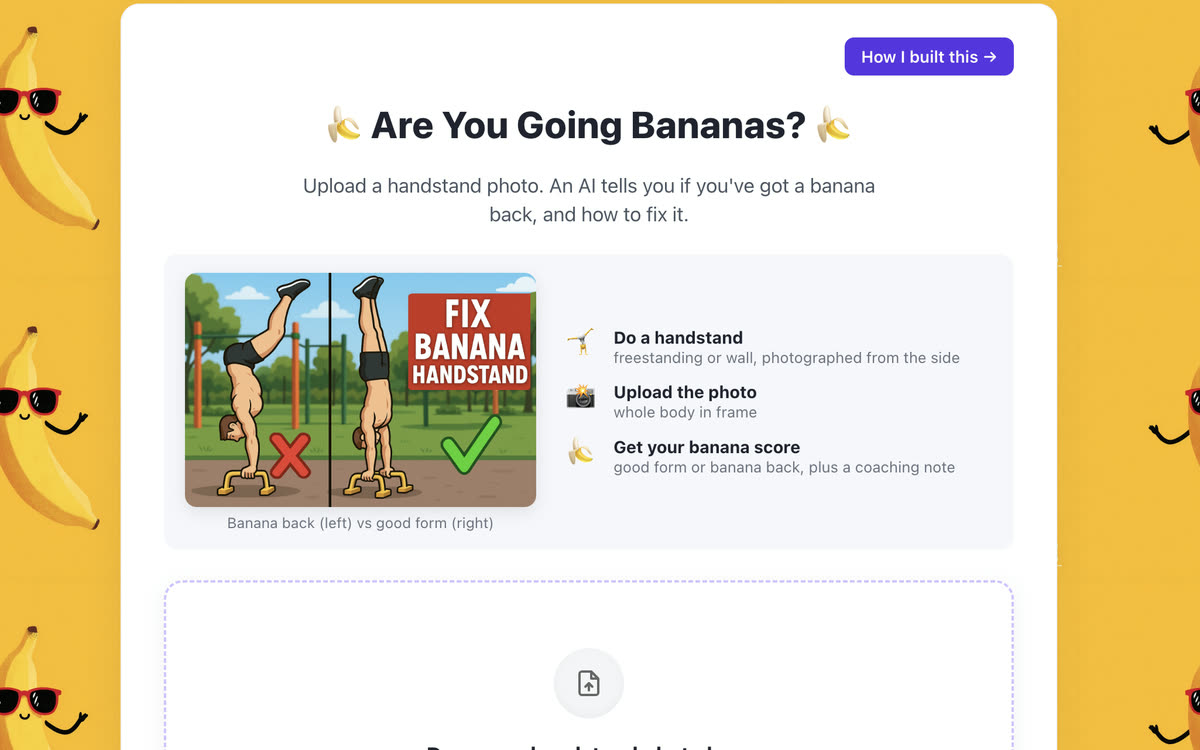
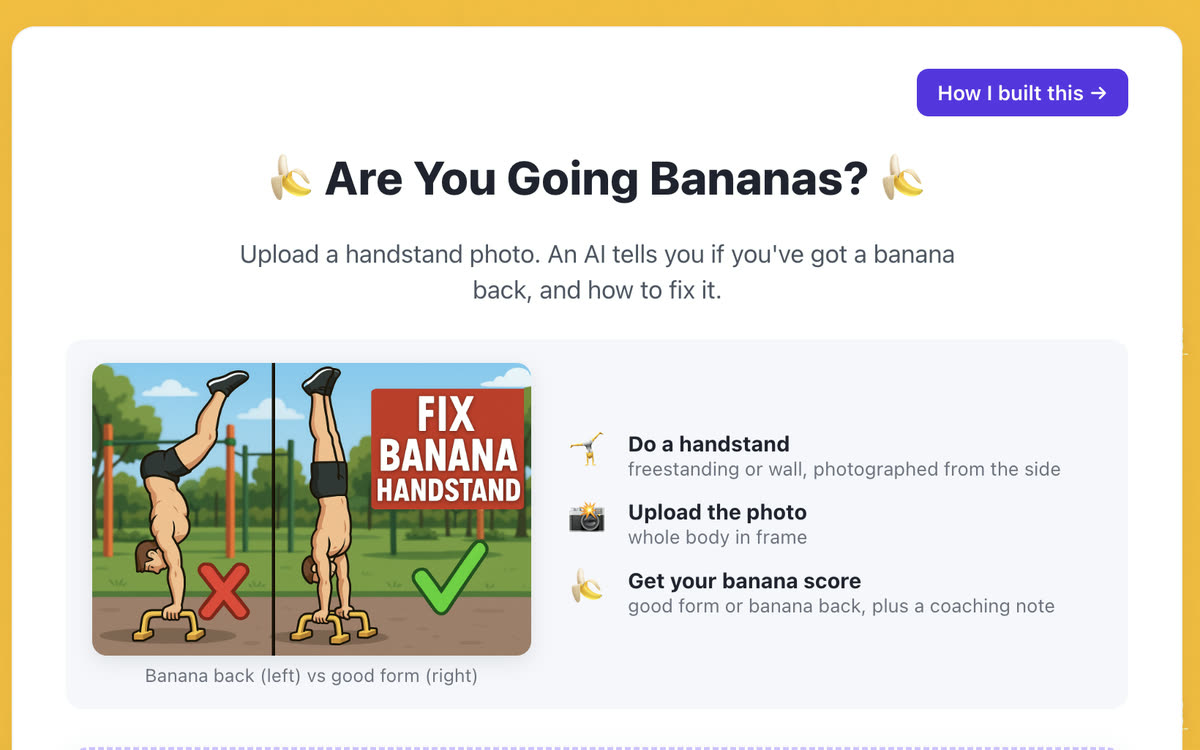
Per-project card images: two tiles, two pairs
Overlaying illustration and screenshot made both worse. Side by side,
each keeps its full frame.

- 01 Airline, 02 ragpatterns: illustration only, normal tiles.
- 03 Make My Gate, 04 fixmybanana: full-width cards with the
  illustration and the live site side by side, 575px each.
- Pairs stack vertically below 900px rather than squeezing.
- fixmybanana's screenshot recropped to its content card.

diff --git a/index.html b/index.html
@@ -71,6 +71,8 @@
 <!-- =========================================================
      WORK  (one <a class="card"> per project)
      To add a project: copy a whole <a class="card"> ... </a> block.
+     A card with two images uses class="card card-wide" and
+     class="card-image card-pair": illustration first, screenshot second.
      ========================================================= -->
 <section class="wrap section" id="work">
   <div class="section-head">
@@ -99,7 +101,7 @@
 
     <!-- PROJECT 02 -->
     <a class="card" href="work/ragpatterns/">
-      <div class="card-image"><img src="images/ragpatterns.jpg" alt="ragpatterns.com, showing the seven RAG patterns scored side by side"></div>
+      <div class="card-image"><img src="images/ragpatterns.svg" alt="Illustration: naive RAG versus reranking"></div>
       <div class="card-body">
         <div class="card-top">
           <span class="card-num">02</span>
@@ -112,8 +114,11 @@
     </a>
 
     <!-- PROJECT 03 -->
-    <a class="card" href="work/make-my-gate/">
-      <div class="card-image"><img src="images/makemygate.jpg" alt="Make My Gate, asking whether a D33 to A63 connection in 50 minutes is possible"></div>
+    <a class="card card-wide" href="work/make-my-gate/">
+      <div class="card-image card-pair">
+        <img src="images/makemygate.svg" alt="Illustration: route from gate D33 through passport control and security to A63">
+        <img src="images/makemygate.jpg" alt="Make My Gate, asking whether a D33 to A63 connection in 50 minutes is possible">
+      </div>
       <div class="card-body">
         <div class="card-top">
           <span class="card-num">03</span>
@@ -126,8 +131,11 @@
     </a>
 
     <!-- PROJECT 04 -->
-    <a class="card" href="work/fixmybanana/">
-      <div class="card-image"><img src="images/fixmybanana.jpg" alt="fixmybanana.com, comparing a banana back handstand with good form"></div>
+    <a class="card card-wide" href="work/fixmybanana/">
+      <div class="card-image card-pair">
+        <img src="images/fixmybanana.svg" alt="Illustration: good form or banana back">
+        <img src="images/fixmybanana.jpg" alt="fixmybanana.com, comparing a banana back handstand with good form">
+      </div>
       <div class="card-body">
         <div class="card-top">
           <span class="card-num">04</span>

diff --git a/css/style.css b/css/style.css
@@ -279,6 +279,15 @@ p { margin: 0 0 1em; }
   transition: transform .2s ease, box-shadow .2s ease;
 }
 .card:hover { transform: translateY(-4px); box-shadow: 6px 8px 0 var(--ink); }
+.card-wide { grid-column: 1 / -1; }
+.card-image.card-pair {
+  aspect-ratio: 32 / 10;
+  display: grid;
+  grid-template-columns: 1fr 1fr;
+  place-items: stretch;
+}
+.card-pair img { width: 100%; height: 100%; object-fit: cover; }
+.card-pair img:first-child { border-right: 1.5px solid var(--ink); }
 .card-image {
   aspect-ratio: 16 / 10;
   max-width: 100%;
@@ -521,6 +530,8 @@ p { margin: 0 0 1em; }
   .hero, .about, .step { grid-template-columns: 1fr; gap: 28px; }
   .portrait-wrap { max-width: 300px; }
   .cards, .three { grid-template-columns: 1fr; }
+  .card-image.card-pair { grid-template-columns: 1fr; aspect-ratio: 8 / 10; }
+  .card-pair img:first-child { border-right: 0; border-bottom: 1.5px solid var(--ink); }
   .event { grid-template-columns: 1fr; gap: 28px; padding-block: 40px; }
   .event-shots { max-width: 620px; }
   .meta { grid-template-columns: repeat(2, 1fr); }
